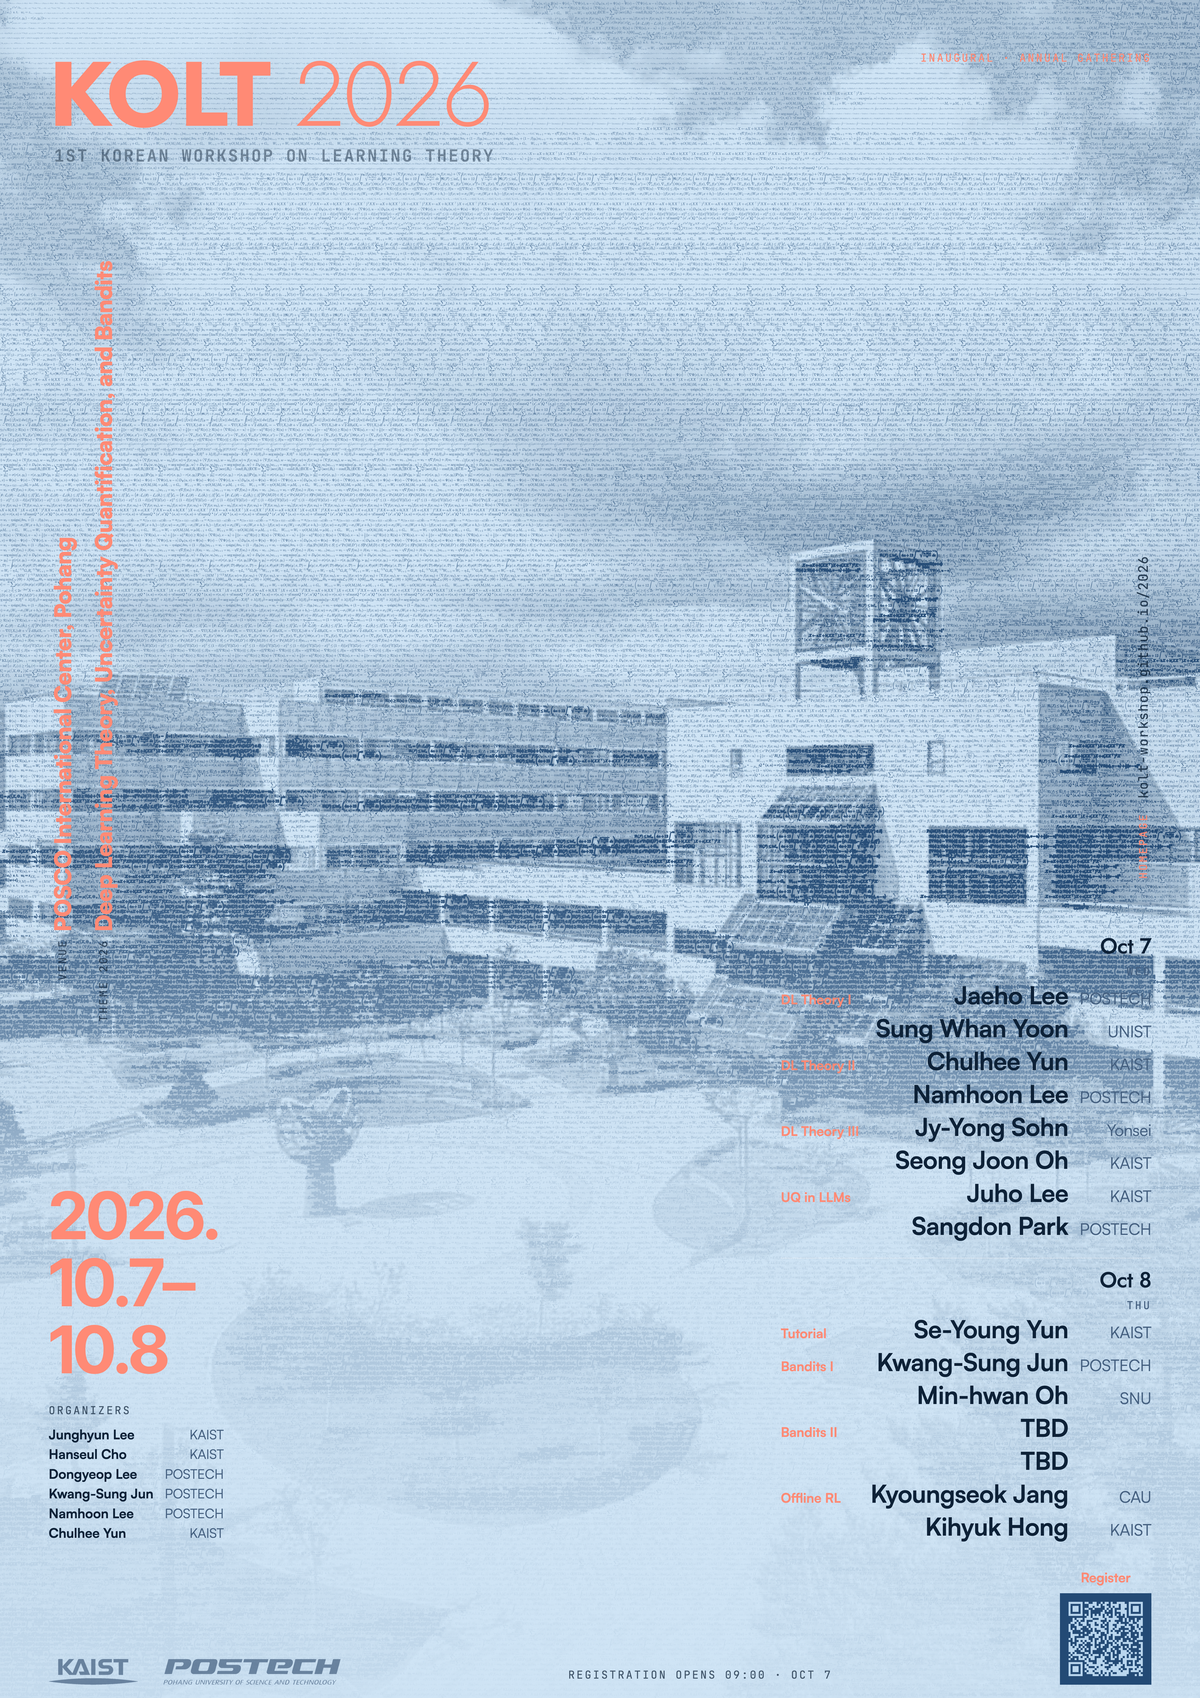
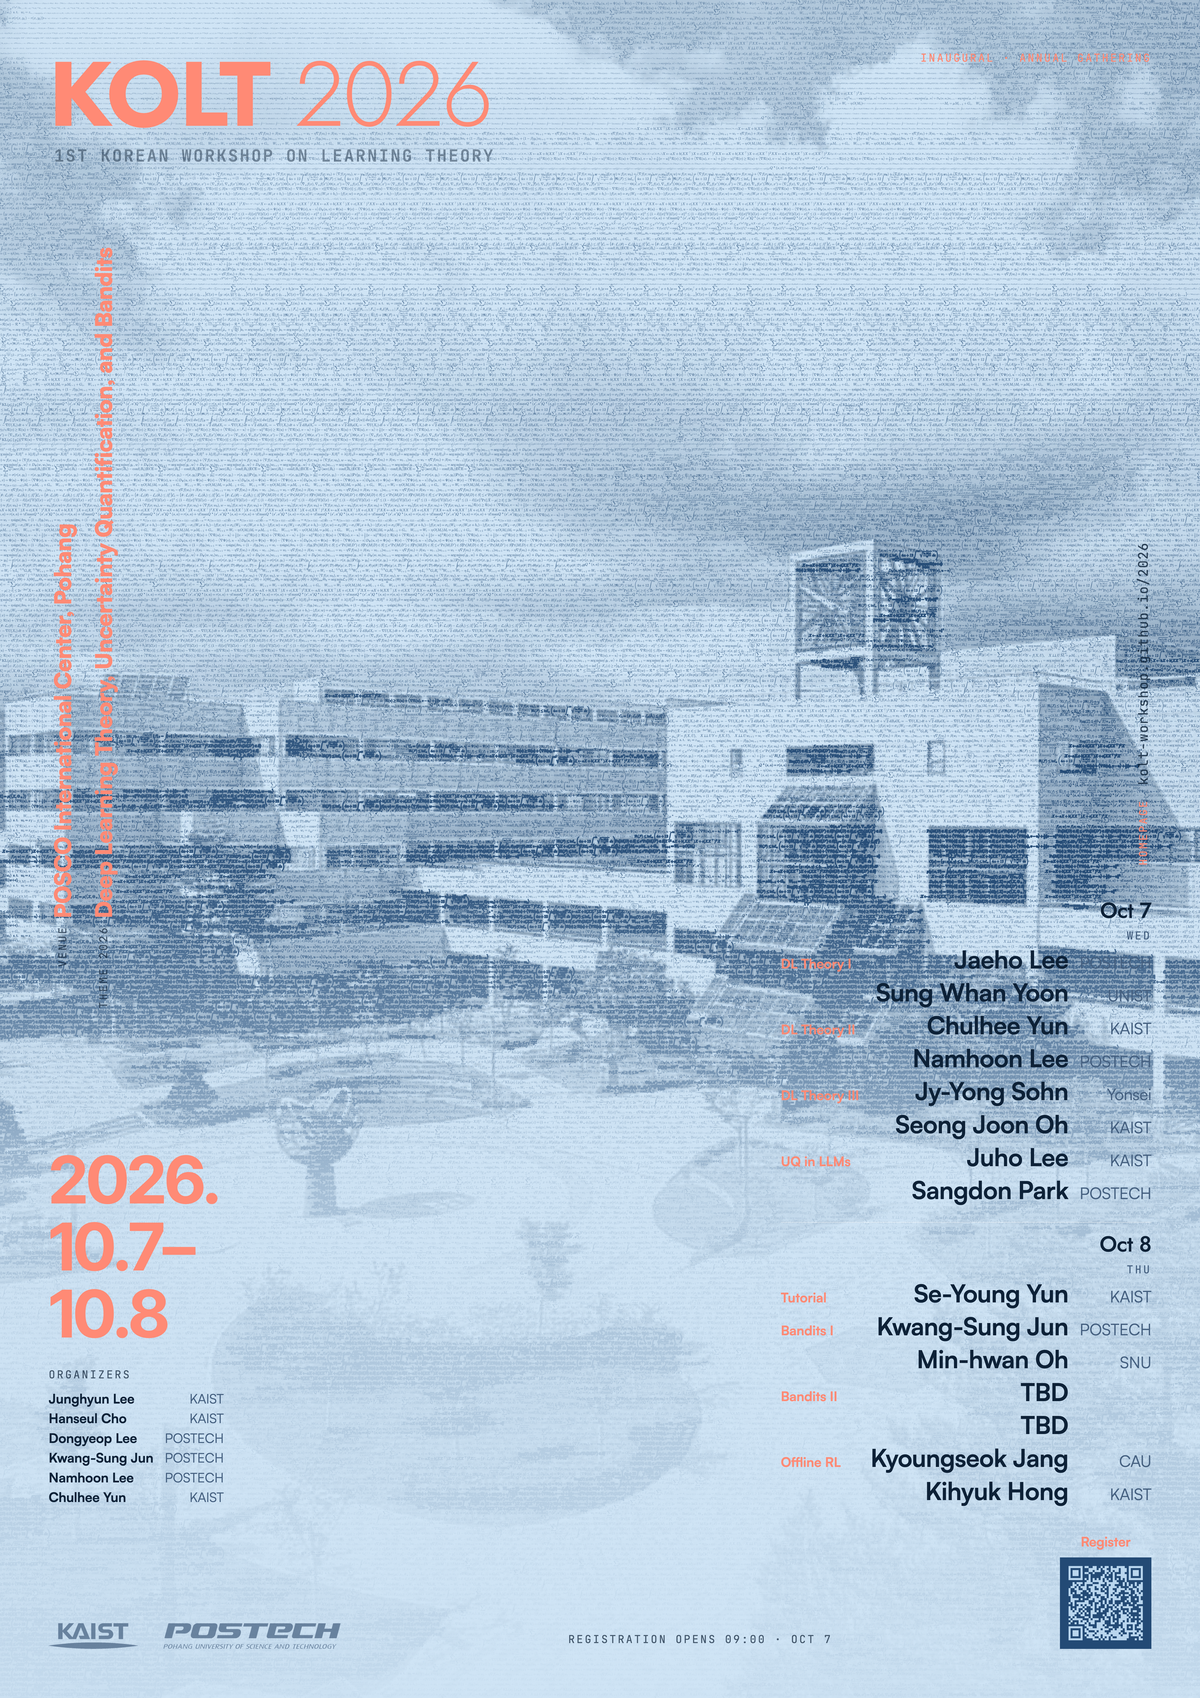
Give the sheet its bottom margin back, and check it every export
The poster had 17mm of margin on three sides and 4mm on the fourth, with the
foot all but touching the trim. The rails did it: they were a flex item with
auto margins, which centres them while there is room and pushes everything
below them once there is not, and growing them to 8mm was past that point.
Nothing said so, because a poster that overflows still prints.

They are out of the column now — absolutely placed at 223mm, which is where the
auto margins had been putting them — so their length cannot move anything, and
the panel takes the bottom margin itself. All four sides measure 17mm from the
trim.

The export checks it rather than trusting it: nothing laid out inside .wrap may
reach past .wrap's content box, which is where the sheet's margin lives. Only
boxes that are laid out — a display:inline box is as tall as its line, and the
2026 in the mark reported 7.1mm over the top with every stroke of it well
inside. Half-leading is not ink.

The hero's plate is a wash again rather than a card, and the hairline over it
is back: taking the rule away to let a box do the same job cost more than it
bought. In the dark there is nothing — the drawing is the light thing there and
the type is lighter still, so nothing was being rescued.

diff --git a/templates/style.css b/templates/style.css
@@ -66,8 +66,7 @@
   --hero-body: #b9c7da;
   --hero-mute: #93a2b8; /* lifted half a step: the hero's ground is lighter now that the campus shows */
   --hero-rule: rgba(255, 255, 255, 0.12);
-  --hero-meta-plate: rgba(13, 21, 35, 0.68);
-  --hero-meta-plate-line: rgba(255, 255, 255, 0.14);
+  --hero-meta-plate: transparent;
   --hero-accent: #ff8a75;
   /* The ink the formula art is drawn in. Cool and a step off white: the glyphs
      are tiny and packed, and at full white the field reads as glare rather
@@ -802,19 +801,33 @@ body {
   grid-template-columns: repeat(auto-fit, minmax(170px, 1fr));
   gap: 22px 34px;
   margin: 34px 0 0;
-  /* On a plate of its own. Everything else in the hero — the mark, the theme,
-     the buttons — is large enough to hold its own against the drawing behind
-     it; this row is four labels at 0.66rem and four facts under them, and it
-     was the one place the picture and the type were competing. A hairline was
-     doing the separating, and a hairline has no inside, so the formulas ran
-     straight under the smallest type on the page.
-     The plate's own edge replaces that hairline: a box drawn under a rule
-     reads as two dividers stacked. */
-  padding: 24px 28px;
-  background: var(--hero-meta-plate);
-  border: 1px solid var(--hero-meta-plate-line);
-  border-radius: 14px;
+  /* The hairline stays — it is what tells this row apart from the theme line
+     above it, and taking it away to let a box do the same job cost more than
+     it bought. Under it, a wash rather than a card: enough to take the density
+     out of the drawing behind the smallest type on the page, not enough to be
+     a white panel sitting on the picture. */
+  position: relative;
+  padding: 22px 0 20px;
+  border-top: 1px solid var(--hero-rule);
   max-width: 900px;
+}
+/* The wash, bled 22px out to either side so it has room around the type
+   without the type moving — the row still starts on the same left edge as the
+   mark and the theme line above it. It begins at the padding edge, so the
+   hairline stays a hairline rather than the top of a panel.
+   In the dark it is transparent: there the drawing is the light thing and the
+   type is lighter still, so nothing was being rescued. */
+.hero-meta::before {
+  content: "";
+  position: absolute;
+  inset: 0 -22px;
+  background: var(--hero-meta-plate);
+  pointer-events: none;
+}
+/* Both are positioned, so the cells paint after the wash on DOM order alone
+   and no stacking index has to be invented. */
+.hero-meta > div {
+  position: relative;
 }
 .hero-meta dt {
   display: flex;
@@ -2571,43 +2584,33 @@ h2 .note {
   margin-right: 6px;
 }
 
-/* A journey, drawn the way a maps app draws one: a dot at every stop, a line
-   between them, and the bus riding on the line.
+/* A journey, drawn the way a maps app draws one when you open it: the rail
+   down the middle with a dot at every stop, times ranged against it on the
+   left and stops and buses on the right.
+
+   Two columns rather than one, because the two kinds of fact read differently.
+   Ranged right against the rail, the times line up as a column of numbers you
+   can total by eye; run inline with the bus they belong to, they were just
+   more words in the sentence.
 
    The line is drawn by the legs and not by the list. A rail down the whole
    container would run past the first dot and past the last, which is the one
-   detail that makes a route diagram look like a border: a route ends where it
-   ends. Each leg carries its own segment, stretched a few pixels past its own
-   box at each end so it meets the dots above and below it. */
+   detail that turns a route diagram into a border: a route ends where it ends.
+   Each leg carries its own segment, stretched a few pixels past its own box at
+   each end so it meets the dots above and below it. */
 .routes {
   list-style: none;
   margin: 0;
   padding: 0;
+  /* The width of the time column and the gutter the rail runs in. Named, so
+     the dot, the line and the two columns cannot drift apart. */
+  --rt-time: 46px;
+  --rt-gap: 22px;
 }
 .route + .route {
   margin-top: 18px;
   padding-top: 16px;
   border-top: 1px solid var(--line);
-}
-/* The whole journey's time, on the line the journey starts on. It began as a
-   heading over the diagram with the origin repeated in it, which named the
-   same station twice a line apart — the diagram already says where you are
-   starting from, and this only has to say how long it takes from there. */
-.stop.is-first {
-  display: flex;
-  align-items: baseline;
-  justify-content: space-between;
-  gap: 10px;
-}
-.stop.is-first > span:first-child {
-  font-weight: 600;
-}
-.route-total {
-  font-family: var(--mono);
-  font-size: 0.74rem;
-  letter-spacing: 0.04em;
-  color: var(--accent);
-  white-space: nowrap;
 }
 .route-stops {
   list-style: none;
@@ -2617,21 +2620,37 @@ h2 .note {
 .route-stops .stop,
 .route-stops .leg {
   position: relative;
-  padding-left: 22px;
+  display: grid;
+  grid-template-columns: var(--rt-time) 1fr;
+  column-gap: var(--rt-gap);
+  align-items: baseline;
 }
-.route-stops .stop {
+.rt-time {
+  justify-self: end;
+  font-family: var(--mono);
+  font-size: 0.72rem;
+  letter-spacing: 0.02em;
+  color: var(--muted);
+  white-space: nowrap;
+}
+/* The whole journey, against the stop it gets you to. */
+.rt-time b {
+  font-weight: 500;
+  color: var(--accent);
+}
+.rt-name {
   font-size: 0.84rem;
   line-height: 1.35;
   color: var(--ink);
   word-break: keep-all;
 }
-/* The dot. Filled at the ends of the journey and hollow where you change,
-   which is the convention and also the useful distinction: the hollow one is
-   the stop you have to do something at. */
+/* The dot, in the gutter between the two columns. Filled at the ends of the
+   journey and hollow where you change, which is both the convention and the
+   useful distinction: the hollow one is the stop you have to do something at. */
 .route-stops .stop::before {
   content: "";
   position: absolute;
-  left: 1px;
+  left: calc(var(--rt-time) + 7px);
   top: 0.42em;
   width: 9px;
   height: 9px;
@@ -2644,18 +2663,13 @@ h2 .note {
   background: var(--card);
 }
 .route-stops .leg {
-  display: flex;
-  align-items: baseline;
-  gap: 8px;
   padding-top: 5px;
   padding-bottom: 5px;
-  font-size: 0.78rem;
-  color: var(--muted);
 }
 .route-stops .leg::before {
   content: "";
   position: absolute;
-  left: 4px;
+  left: calc(var(--rt-time) + 10px);
   top: -3px;
   bottom: -3px;
   width: 3px;
@@ -2663,22 +2677,25 @@ h2 .note {
   background: var(--accent);
   opacity: 0.42;
 }
-.leg-via {
+/* Sized against the name rather than left at whatever a colour emoji font
+   gives, and nudged down: emoji sit high on the line beside Latin text. */
+.rt-icon {
+  display: inline-block;
+  width: 1.25em;
+  margin-right: 3px;
+  font-size: 0.92em;
+  line-height: 1;
+  transform: translateY(0.06em);
+}
+.rt-via {
   font-family: var(--mono);
   font-size: 0.72rem;
   letter-spacing: 0.04em;
   color: var(--prose);
 }
-.leg-time {
-  font-size: 0.74rem;
-}
-.leg-time::before {
-  content: "·";
-  margin-right: 8px;
-}
 .route-alt {
   margin: 7px 0 0;
-  padding-left: 22px;
+  padding-left: calc(var(--rt-time) + var(--rt-gap));
   font-size: 0.78rem;
   color: var(--muted);
 }
@@ -3601,8 +3618,7 @@ a.poster-shot:focus-visible {
      stands on. */
   --hero-mute: #33506f;
     --hero-rule: rgba(13, 33, 55, 0.16);
-    --hero-meta-plate: rgba(255, 255, 255, 0.8);
-    --hero-meta-plate-line: rgba(13, 33, 55, 0.09);
+    --hero-meta-plate: rgba(255, 255, 255, 0.3);
     /* Orange, not red. #c93a1c sits at hue 10 with the lightness a light
      ground needs, and at that hue the darkness reads as blood rather than
      as the coral the dark sheet uses. Walking the hue to 18 at the same
@@ -3678,8 +3694,7 @@ a.poster-shot:focus-visible {
      stands on. */
   --hero-mute: #33506f;
   --hero-rule: rgba(13, 33, 55, 0.16);
-  --hero-meta-plate: rgba(255, 255, 255, 0.8);
-  --hero-meta-plate-line: rgba(13, 33, 55, 0.09);
+  --hero-meta-plate: rgba(255, 255, 255, 0.3);
   /* Orange, not red. #c93a1c sits at hue 10 with the lightness a light
      ground needs, and at that hue the darkness reads as blood rather than
      as the coral the dark sheet uses. Walking the hue to 18 at the same

diff --git a/tools/export-poster.py b/tools/export-poster.py
@@ -30,6 +30,7 @@ Needs Chrome and Pillow. Local tool only — the site build does not run this.
 """
 
 import argparse
+import json
 import re
 import shutil
 import subprocess
@@ -42,14 +43,38 @@ from pathlib import Path
 # and a substitution looks like a poster right up until someone reads it.
 FACES = ("Satoshi", "JetBrains Mono", "Jost", "Inter Tight")
 
-FONT_PROBE = """<script>
-document.fonts.ready.then(() => {
+# And what it must be set inside. .wrap carries the sheet's margin as padding,
+# so nothing laid out within it may reach past its content box. The decorative
+# layers are siblings of .wrap and bleed on purpose, which is why the check
+# asks .wrap about its own descendants rather than the sheet about everything.
+PROBE = """<script>
+document.fonts.ready.then(() => setTimeout(() => {
   const got = new Set([...document.fonts].filter(f => f.status === 'loaded')
                                          .map(f => f.family));
+  const mm = 96 / 25.4, wrap = document.querySelector('.wrap');
+  const cs = getComputedStyle(wrap), b = wrap.getBoundingClientRect();
+  const pad = s => parseFloat(cs['padding' + s]);
+  const box = { l: b.left + pad('Left'), r: b.right - pad('Right'),
+                t: b.top + pad('Top'), o: b.bottom - pad('Bottom') };
+  const over = [];
+  wrap.querySelectorAll('*').forEach(e => {
+    // Only boxes that are laid out. A display:inline box is as tall as its
+    // line, which is taller than the letters in it — the 2026 in the mark
+    // reported 7.1mm over the top edge with every stroke of it well inside.
+    // Half-leading is not ink.
+    if (getComputedStyle(e).display === 'inline') return;
+    const r = e.getBoundingClientRect();
+    if (r.width === 0 && r.height === 0) return;
+    const d = Math.max(box.l - r.left, r.right - box.r,
+                       box.t - r.top, r.bottom - box.o) / mm;
+    if (d > 0.5) over.push(
+      (e.className || e.tagName).toString().split(' ')[0] + ' by ' + d.toFixed(1) + 'mm');
+  });
   const p = document.createElement('pre');
-  p.id = '__fonts'; p.textContent = [...got].join('|');
+  p.id = '__probe';
+  p.textContent = JSON.stringify({ fonts: [...got], over: over.slice(0, 6) });
   document.body.appendChild(p);
-});
+}, 400));
 </script>"""
 
 CHROME = "/Applications/Google Chrome.app/Contents/MacOS/Google Chrome"
@@ -135,18 +160,24 @@ def main():
             folder.mkdir(parents=True, exist_ok=True)
             url = f"http://localhost:{args.port}/{name}.html"
 
-            probe = work / f"{name}--fonts.html"
+            probe = work / f"{name}--probe.html"
             probe.write_text((work / f"{name}.html").read_text(encoding="utf-8")
-                             + FONT_PROBE, encoding="utf-8")
+                             + PROBE, encoding="utf-8")
             dom = run(CHROME, "--headless=new", "--disable-gpu",
                       "--window-size=1610,2268", "--virtual-time-budget=40000",
                       "--dump-dom", f"http://localhost:{args.port}/{probe.name}")
             probe.unlink()
-            m = re.search(r'<pre id="__fonts">(.*?)</pre>', dom, re.S)
-            loaded = set(m.group(1).split("|")) if m else set()
-            if not set(FACES) <= loaded:
+            m = re.search(r'<pre id="__probe">(.*?)</pre>', dom, re.S)
+            if not m:
+                sys.exit(f"  {name}: the probe did not report")
+            said = json.loads(m.group(1).replace("&quot;", '"').replace("&amp;", "&"))
+            missing = set(FACES) - set(said["fonts"])
+            if missing:
                 sys.exit(f"  {name} fell back to system type — did not load: "
-                         + ", ".join(sorted(set(FACES) - loaded)))
+                         + ", ".join(sorted(missing)))
+            if said["over"]:
+                sys.exit(f"  {name} runs past the sheet's margin:\n    "
+                         + "\n    ".join(said["over"]))
 
             run(CHROME, "--headless=new", "--disable-gpu", "--no-pdf-header-footer",
                 f"--print-to-pdf={folder / (stem + '.pdf')}",

diff --git a/tools/poster.py b/tools/poster.py
@@ -703,7 +703,21 @@ FESTIVAL = """<!doctype html>
      the thing on the left they are actually read against is the date, which
      starts 66mm lower. Measured on the sheet: title bottom 61.3, date top
      403.9, so the midpoint is 232.6 and the rails were sitting at 199.8. */
-  .rails {{ display:flex; gap:4.5mm; margin:auto 0; position:relative; top:33mm; }}
+  /* Out of the column, not in it. The rails were a flex item with auto
+     margins, which centres them while there is room and pushes everything
+     below them once there is not — and past a certain rail length there is
+     not. That is what ate the sheet's bottom margin: 20mm on three sides and
+     7mm on the fourth, with the foot all but touching the trim, and nothing
+     said so because a poster that overflows still prints.
+
+     Taken out of the flow it cannot push anything, and its size is free to be
+     whatever the longest line needs. 223mm is where the auto margins were
+     putting it: centred in the band between the title and the panel, which
+     measured 52mm to 328mm, and then the same 33mm down. */
+  .rails {{
+    position:absolute; left:20mm; right:20mm; top:223mm;
+    transform:translateY(-50%); display:flex; gap:4.5mm;
+  }}
   .rail {{
     writing-mode:vertical-rl; transform:rotate(180deg);
     font-family:"Satoshi","Helvetica Neue",sans-serif; color:{hot};
@@ -809,8 +823,10 @@ FESTIVAL = """<!doctype html>
   /* Including its label. The size on .rail em is the display size the left
      edge is set at, and it reaches here too — this rail is one of the rails.
      The whole line is small, which is the point of it. */
-  /* The programme, against one right edge. */
-  .panel {{ margin-top:0; }}
+  /* The programme, against one right edge. It sits on the bottom padding: the
+     rails used to hold it there by filling the space above it, and they no
+     longer occupy any. */
+  .panel {{ margin-top:auto; }}
   .bill {{ margin:0 0 0 auto; text-align:right; }}
 
   /* The rule and the space between sessions live on the label, because a

diff --git a/build.py b/build.py
@@ -353,10 +353,10 @@ def fill_defaults(bundle: dict) -> None:
     bundle["venue"].setdefault("getting_here_title", None)
     bundle["venue"].setdefault("getting_here_title_ko", None)
     for route in bundle["venue"].setdefault("getting_here", []):
-        for key in ("from_ko", "total", "total_ko", "alt", "alt_ko"):
+        for key in ("from_ko", "total", "total_ko", "alt", "alt_ko", "icon"):
             route.setdefault(key, None)
         for leg in route.setdefault("legs", []):
-            for key in ("via_ko", "to_ko", "time", "time_ko"):
+            for key in ("via_ko", "to_ko", "time", "time_ko", "icon"):
                 leg.setdefault(key, None)
             # A stop is filled unless it is somewhere you get off to get on
             # something else, which is how a map draws a transfer.
